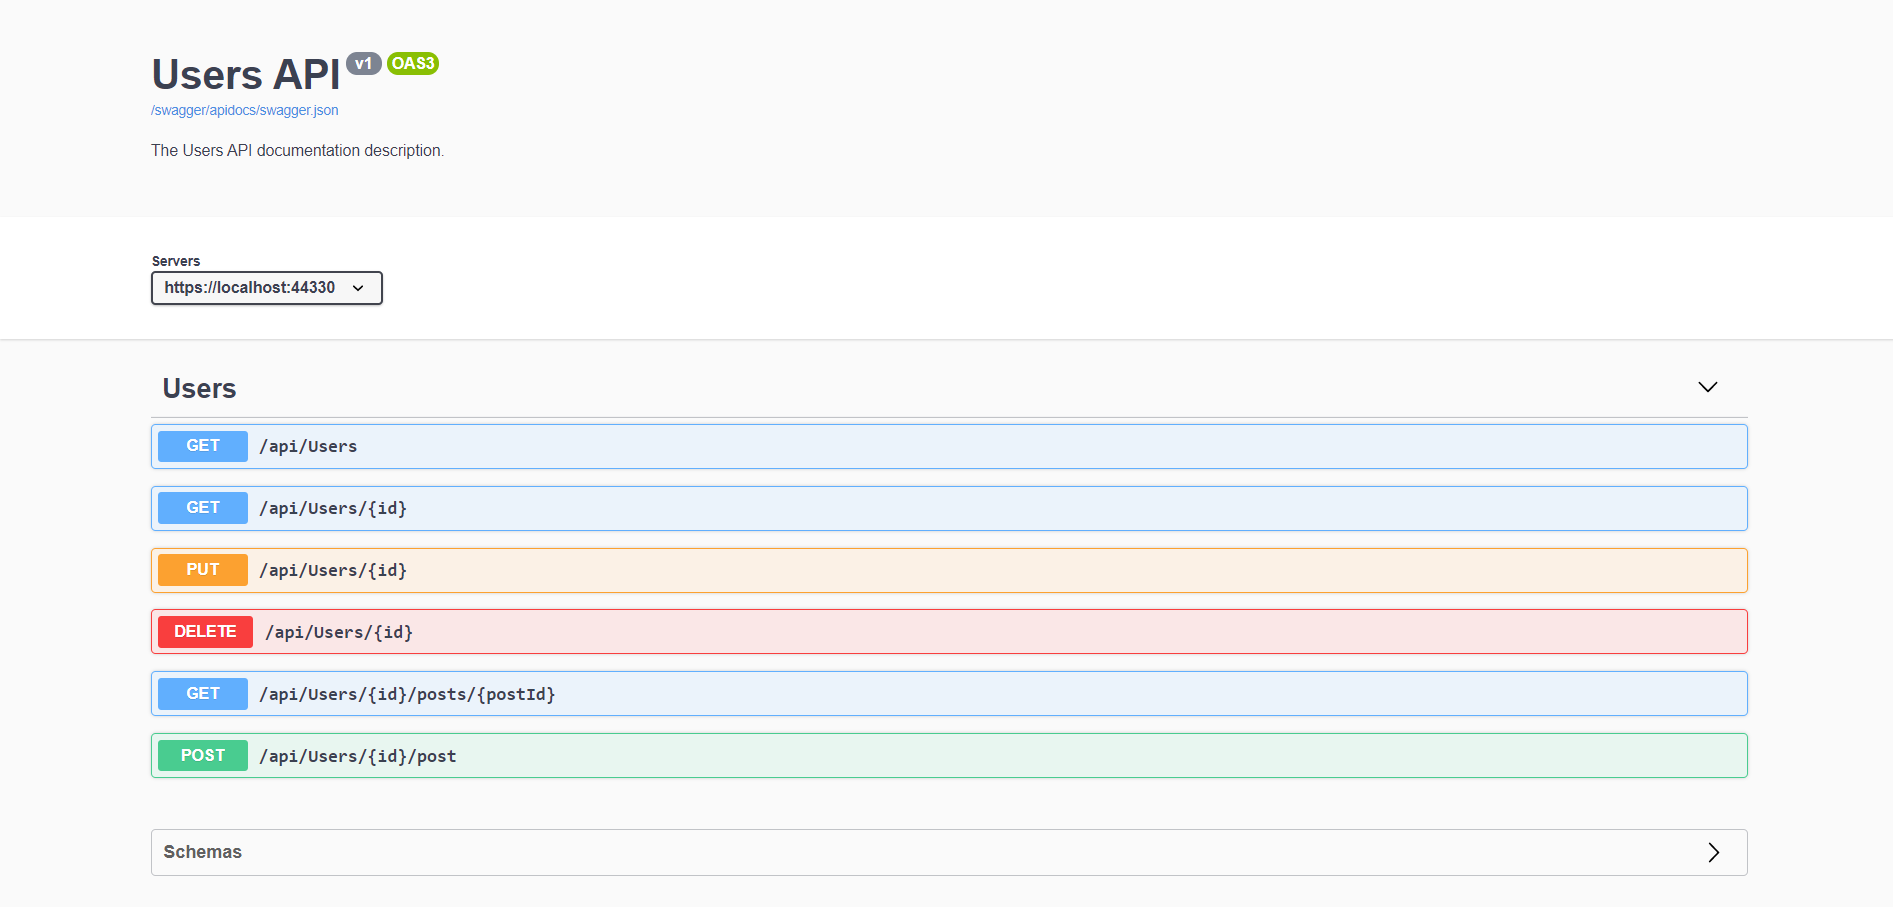
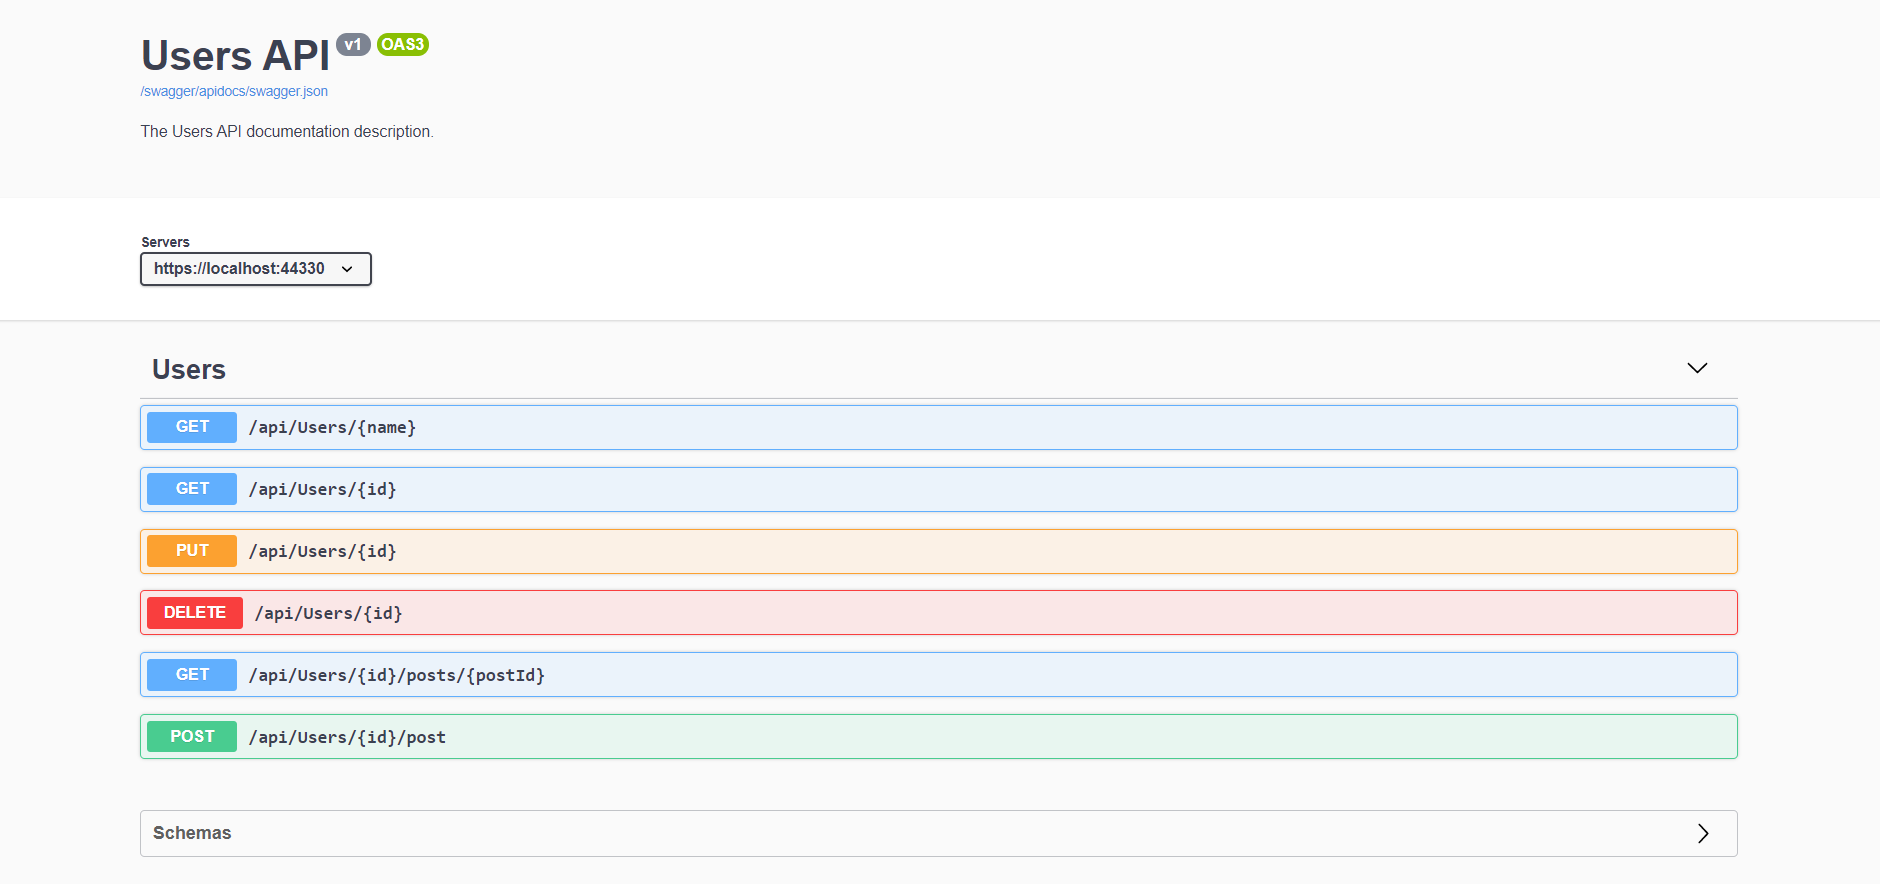
Domain model diagram

diff --git a/PostApi/Controllers/UsersController.cs b/PostApi/Controllers/UsersController.cs
@@ -39,7 +39,7 @@ namespace PostApi.Controllers
         /// </summary>
         /// <param name="name">the name of the user</param>
         /// <returns>The user</returns>
-        [HttpGet]
+        [HttpGet("{name}")]
         public ActionResult<User> GetUser(string name = null)
         {
             if (string.IsNullOrEmpty(name))
